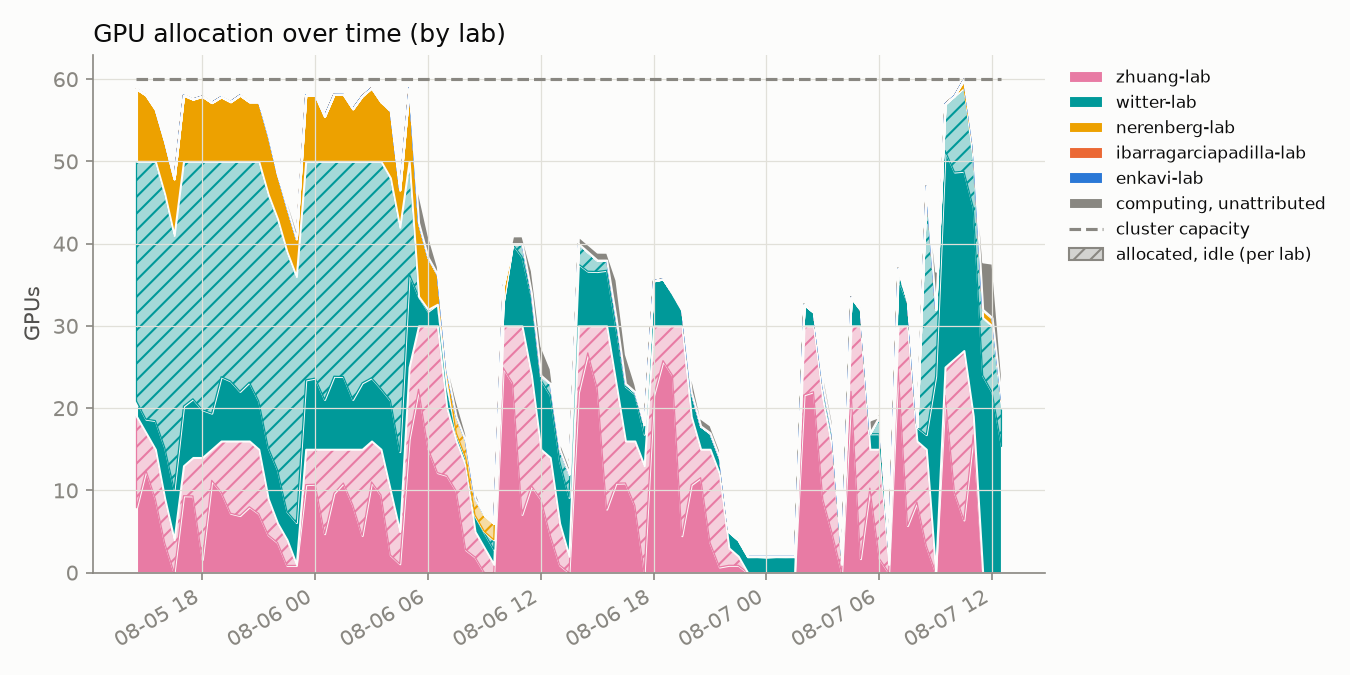
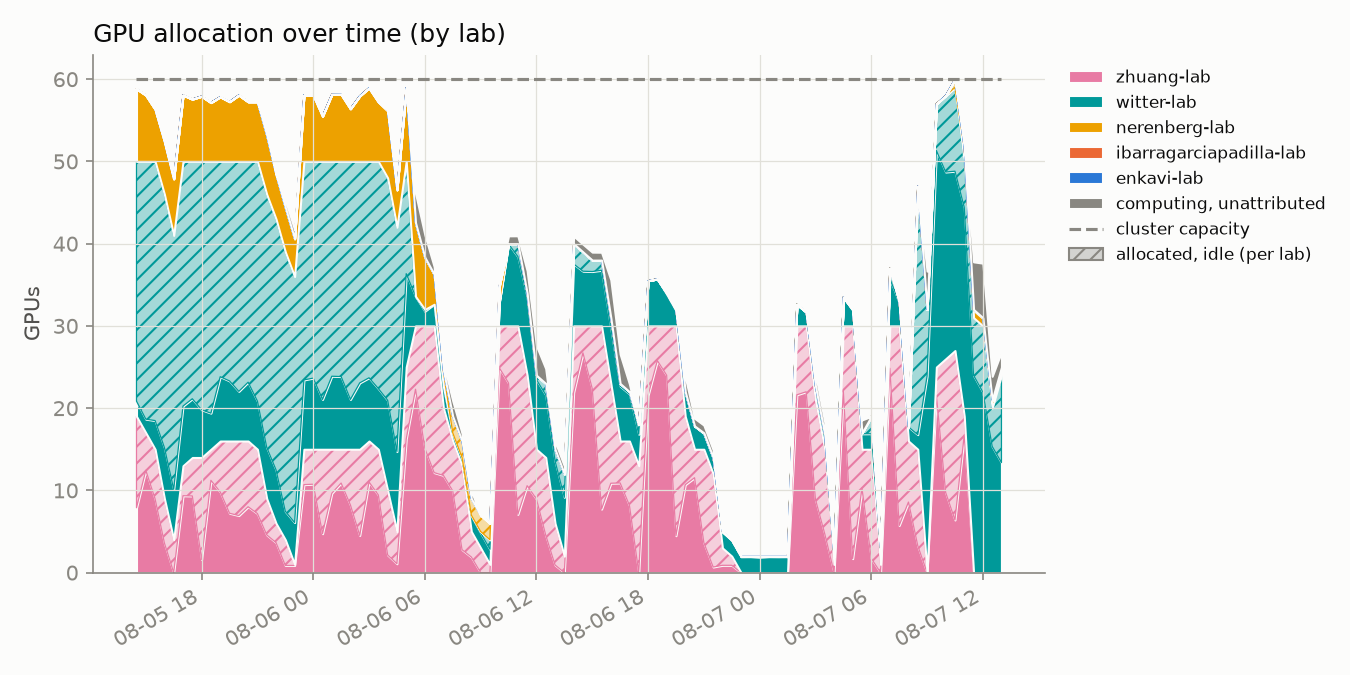
update 2026-08-07T13:00:01-07:00

diff --git a/README.md b/README.md
@@ -2,8 +2,8 @@
 
 Automated GPU/CPU/queue utilization tracker for `hopper.cluster`, updated every 30 minutes by cron. Usernames are anonymized to a stable per-account pseudonym; lab names are real.
 
-Last updated: 2026-08-07T12:30:18-07:00
-Samples: 93 queue snapshots, 93 GPU snapshots
+Last updated: 2026-08-07T13:00:19-07:00
+Samples: 94 queue snapshots, 94 GPU snapshots
 
 ## Resources
 
@@ -16,7 +16,7 @@ Samples: 93 queue snapshots, 93 GPU snapshots
 
 ## Headline
 
-- **54.9%** of the cluster's 60 GPUs allocated, averaged across all samples
+- **54.8%** of the cluster's 60 GPUs allocated, averaged across all samples
 - **45.5%** average `nvidia-smi` utilization *when* a GPU is allocated to a job
 - **86.6%** average cgroup CPU utilization *when* a CPU is allocated to a job
 
@@ -26,14 +26,14 @@ Samples: 93 queue snapshots, 93 GPU snapshots
 <tr><th>Lab</th><th>User</th><th align='right'>GPU-hours allocated</th><th align='right'>CPU-hours allocated</th><th align='right'>GPU utilization</th></tr>
 <tr style='background-color:#fbebf1'><td>zhuang-lab</td><td>user-0db9ced0</td><td align='right'>722.0</td><td align='right'>722.0</td><td align='right'>48%</td></tr>
 <tr style='background-color:#d8efef'><td>witter-lab</td><td>user-d58f5a15</td><td align='right'>467.5</td><td align='right'>3740.0</td><td align='right'>9%</td></tr>
-<tr style='background-color:#d8efef'><td>witter-lab</td><td>user-554c620c</td><td align='right'>300.5</td><td align='right'>689.0</td><td align='right'>67%</td></tr>
+<tr style='background-color:#d8efef'><td>witter-lab</td><td>user-554c620c</td><td align='right'>312.5</td><td align='right'>702.5</td><td align='right'>66%</td></tr>
 <tr style='background-color:#fcf0d8'><td>nerenberg-lab</td><td>user-6bb5f332</td><td align='right'>40.0</td><td align='right'>200.0</td><td align='right'>71%</td></tr>
-<tr style='background-color:#fcf0d8'><td>nerenberg-lab</td><td>user-fedb5feb</td><td align='right'>2.5</td><td align='right'>34.0</td><td align='right'>49%</td></tr>
-<tr style='background-color:#fce8e0'><td>ibarragarciapadilla-lab</td><td>user-3cfc41a3</td><td align='right'>0.0</td><td align='right'>3562.5</td><td align='right'>—</td></tr>
-<tr style='background-color:#fce8e0'><td>ibarragarciapadilla-lab</td><td>user-eec7ffae</td><td align='right'>0.0</td><td align='right'>426.5</td><td align='right'>—</td></tr>
-<tr style='background-color:#dfeaf8'><td>enkavi-lab</td><td>user-c21bdaa4</td><td align='right'>0.0</td><td align='right'>56.0</td><td align='right'>—</td></tr>
-<tr style='background-color:#fcf0d8'><td>nerenberg-lab</td><td>user-b12dc074</td><td align='right'>0.0</td><td align='right'>16.0</td><td align='right'>—</td></tr>
+<tr style='background-color:#fcf0d8'><td>nerenberg-lab</td><td>user-fedb5feb</td><td align='right'>3.0</td><td align='right'>34.5</td><td align='right'>49%</td></tr>
 <tr style='background-color:#fce8e0'><td>ibarragarciapadilla-lab</td><td>user-dad71a72</td><td align='right'>0.0</td><td align='right'>6.0</td><td align='right'>—</td></tr>
+<tr style='background-color:#fce8e0'><td>ibarragarciapadilla-lab</td><td>user-eec7ffae</td><td align='right'>0.0</td><td align='right'>426.5</td><td align='right'>—</td></tr>
+<tr style='background-color:#dfeaf8'><td>enkavi-lab</td><td>user-c21bdaa4</td><td align='right'>0.0</td><td align='right'>58.0</td><td align='right'>—</td></tr>
+<tr style='background-color:#fcf0d8'><td>nerenberg-lab</td><td>user-b12dc074</td><td align='right'>0.0</td><td align='right'>16.0</td><td align='right'>—</td></tr>
+<tr style='background-color:#fce8e0'><td>ibarragarciapadilla-lab</td><td>user-3cfc41a3</td><td align='right'>0.0</td><td align='right'>3577.5</td><td align='right'>—</td></tr>
 </table>
 
 ## Usage over time
@@ -44,7 +44,7 @@ Samples: 93 queue snapshots, 93 GPU snapshots
 
 Solid = utilized by lab, hatched = allocated but idle, gray = usage not traceable to a lab, dashed line = cluster capacity.
 
-Attribution combines `nvidia-smi`'s process listing with Slurm's GPU-to-job binding record; the latter caught **2288** readings the former missed.
+Attribution combines `nvidia-smi`'s process listing with Slurm's GPU-to-job binding record; the latter caught **2310** readings the former missed.
 
 ## Queue
 
@@ -56,13 +56,13 @@ Attribution combines `nvidia-smi`'s process listing with Slurm's GPU-to-job bind
 
 ![CPU usage vs GPU usage, decayed](assets/cpu_gpu_usage.png)
 
-One point per user per snapshot (n=456), usage decayed on Slurm's ~7-day fairshare half-life.
+One point per user per snapshot (n=461), usage decayed on Slurm's ~7-day fairshare half-life.
 
 **GPU usage doesn't count toward priority on this cluster** (`TRESBillingWeights`/`PriorityWeightTRES` unset) - watch the **upper-left**: low CPU usage (high priority) with high GPU usage.
 
 ## Recommendations
 
-1. **Weight GPU usage in fairshare.** `TRESBillingWeights` and `PriorityWeightTRES` are both unset right now, so Slurm's fairshare score only sees CPU-seconds - a job holding 4 idle L40S GPUs costs nothing in priority as long as it isn't also holding CPUs. That's the exact failure mode the scatter above is built to catch (upper-left: low CPU usage, high GPU usage). Fix: `scontrol update partition=main TRESBillingWeights=CPU=1.0,GRES/gpu=<weight>` (or set `PriorityWeightTRES` cluster-wide), then `scontrol reconfigure` - a full `slurmctld` restart also works but drops in-flight priority state. A reasonable starting point for `<weight>` is the CPUs-per-GPU ratio on a GPU node (128 CPUs / 4 GPUs = 32), so one GPU costs as much fairshare as the CPU share it displaces; tune from there against next week's headline numbers (54.9% allocated, 45.5% utilized when allocated, as of this snapshot). The weight value itself is a policy call - loop in whoever owns cluster allocation policy before changing it.
+1. **Weight GPU usage in fairshare.** `TRESBillingWeights` and `PriorityWeightTRES` are both unset right now, so Slurm's fairshare score only sees CPU-seconds - a job holding 4 idle L40S GPUs costs nothing in priority as long as it isn't also holding CPUs. That's the exact failure mode the scatter above is built to catch (upper-left: low CPU usage, high GPU usage). Fix: `scontrol update partition=main TRESBillingWeights=CPU=1.0,GRES/gpu=<weight>` (or set `PriorityWeightTRES` cluster-wide), then `scontrol reconfigure` - a full `slurmctld` restart also works but drops in-flight priority state. A reasonable starting point for `<weight>` is the CPUs-per-GPU ratio on a GPU node (128 CPUs / 4 GPUs = 32), so one GPU costs as much fairshare as the CPU share it displaces; tune from there against next week's headline numbers (54.8% allocated, 45.5% utilized when allocated, as of this snapshot). The weight value itself is a policy call - loop in whoever owns cluster allocation policy before changing it.
 
 2. **Escalate on sustained low utilization** (see table and scatter above). Right now the clearest candidate is `user-d58f5a15` in `witter-lab`: 467.5 GPU-hours allocated at 9% average utilization, i.e. roughly 424 GPU-hours that sat idle instead of going to someone in the queue. Turning that into an automated escalation needs two decisions made up front: a utilization threshold (something like under 20% mean utilization over at least 50 allocated GPU-hours is a defensible starting bar - loose enough to skip short debugging runs, tight enough to catch parked allocations) and a grace period (how many consecutive low-utilization snapshots before it counts as "sustained" rather than a momentary lull between batches). Once those are set, the mechanism can be either soft (a bot that reads `data/gpu_samples.jsonl` and reminds the user/lab by email or Slack) or hard (a Slurm-side QOS penalty, e.g. `sacctmgr modify qos <qos> set Priority-=<n>`, applied after N consecutive offending snapshots). Neither exists yet - today the table and scatter above are a read-only signal, not an enforced policy.
 
